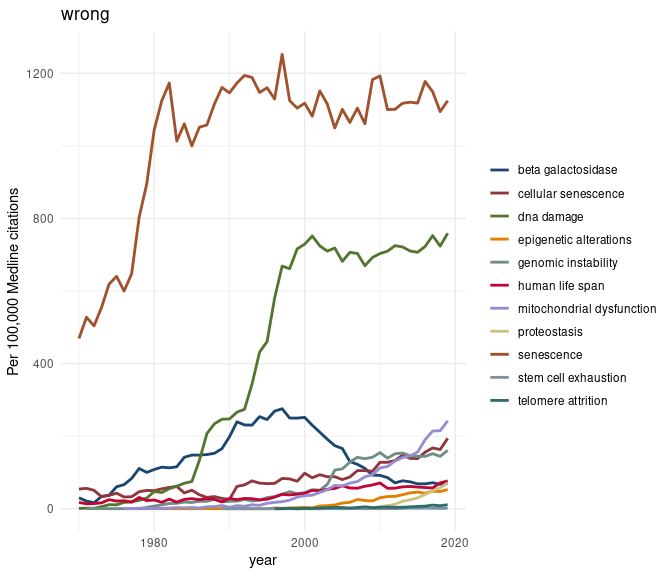
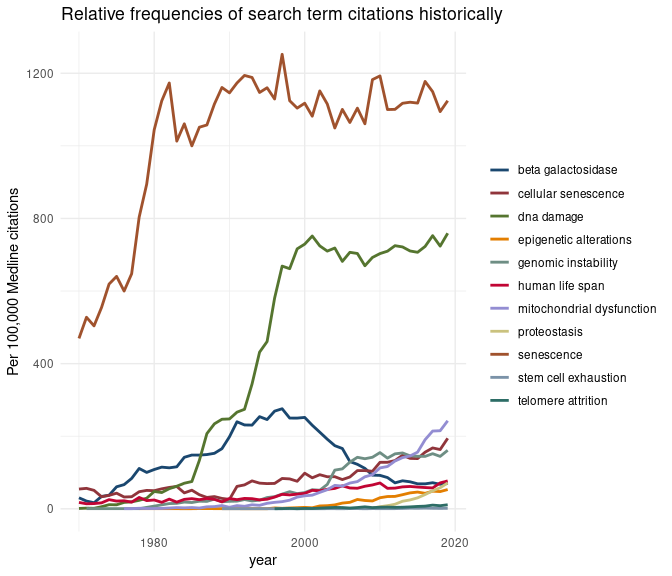
re

Changed region(s): [[0.0938, 0.0, 0.75, 0.0625]]

diff --git a/README.md b/README.md
@@ -1,6 +1,12 @@
 PubMed Mining Toolkit - an overview
 -----------------------------------
 
+Two general sets of utility. (1) Exploratory tools for investigating and
+visualizing high-level patterns/trends based on PubMed search results;
+(2) Build custom corpora based on PubMed abstracts for downstream NLP
+tasks – word sense disambiguation, custom named entity recognition,
+association extraction, etc.
+
 -   [Installation](#installation)
 -   [Usage](#usage)
     -   [MeSH vocabulary](#mesh-vocabulary)
@@ -17,7 +23,7 @@ PubMed Mining Toolkit - an overview
     -   [MeSH-based topic model](#mesh-based-topic-model)
     -   [Topic model summary - html
         widget](#topic-model-summary---html-widget)
-    -   [Image summary](#image-summary)
+    -   [Google image summary](#google-image-summary)
 
 Installation
 ------------
@@ -56,8 +62,9 @@ pacman::p_load(data.table, # quanteda,
 
 The package includes as a data frame the MeSH thesaurus/
 hierarchically-organized vocabulary – comprised of 2021 versions of
-`descriptor` & `trees` files made available via NLM-NIH. [A workflow for
-re-creating the table from raw data
+`descriptor` & `trees` files made available via NLM-NIH.
+
+[A workflow for re-creating the table from raw data
 sets](https://github.com/jaytimm/PubmedMTK/blob/main/build-MeSH-df.md).
 
 ``` r
@@ -169,11 +176,10 @@ knitr::kable(head(PubmedMTK::pmtk_tbl_mesh))
 
 ### Search the PubMed database - `pmtk_search_pubmed()`
 
-Find records included in PubMed that match some search term or multiple
-search terms. If multiple search terms are specified, independent
-queries are performed per term. Output, then, includes PMID results per
-search term – which can subsequently be used to fetch full
-records/abstracts.
+**Identify PubMed records that match some search term or multiple search
+terms**. If multiple search terms are specified, independent queries are
+performed per term. Output includes PMID results per search term – which
+can subsequently be used to fetch full records/abstracts.
 
 Search terms are by default translated into NCBI syntax; for simplicity,
 search is focused on *MeSH headings* (\[MH\]) and *titles & abstracts*
@@ -198,7 +204,7 @@ pmed_search <- c('human life span',
 search_results1 <- PubmedMTK::pmtk_search_pubmed(pmed_search = pmed_search)
 ```
 
-> Summary of record counts returned by PubMed query
+#### Summary of record counts returned by PubMed query
 
 ``` r
 # ## Total citations per search term are summarized below:
@@ -224,7 +230,7 @@ search_results1 %>%
 | telomere attrition        |     853|
 | stem cell exhaustion      |     162|
 
-> Unique records
+#### Unique records
 
 ``` r
 length(unique(search_results1$pmid))
@@ -259,6 +265,8 @@ search_tab %>% filter(term1 == 'senescence') %>% knitr::kable()
 | senescence | stem cell exhaustion      |  278659|     162|     88|   0.668|
 | senescence | telomere attrition        |  278659|     853|    443|   0.623|
 
+Positive pointwise mutual information.
+
 ``` r
 search_tab %>%
   mutate(pmi = ifelse(pmi < 0, 0, pmi),
@@ -285,20 +293,17 @@ search_tab %>%
 
 ### Fetch abstract data from PubMed
 
-As a two-step process: using functions `pmtk_download_abs()` and
-`pmtk_loadr_abs(()`.
+As a two-step process: (1) `pmtk_download_abs()` and (2)
+`pmtk_loadr_abs()`. Other R packages provide access to NCBI-PubMed data
+via the `Eutils` API (most notable being `rentrez`); however, none of
+them are perfectly suited for fetching PubMed abstracts in bulk, or
+building text corpora.
 
-`rentrez` is a lovely package (and maintained by
-[rOpenSci](https://github.com/ropensci/rentrez)); however, in my
-experience it is not especially well-designed for fetching PubMed
-abstracts in bulk or building text corpora. API rate-limits being most
-problematic.
-
-While `rentrez` is still employed here, our approach utilizes a
-combination of local storage and “more + smaller” API queries to make
-the most of rate limits. Each “batch” contains n = 199 records; batch
-files are converted from XML to a data frame in RDS format and stored
-locally in a user-specified file path.
+**The approach utilized here** is not the most elegant, but it makes the
+most out of rate-limits by utilizing a combination of local storage and
+“more + smaller” API batch queries. Each “batch” contains n = 199
+records; batch files are converted from XML to a data frame in RDS
+format and stored locally in a user-specified file path.
 
 #### Download batch data - `pmtk_download_abs()`
 
@@ -340,6 +345,9 @@ sen_df$tif %>%
 |:-------------------|-------:|---------:|
 | N                  |   62790|        NA|
 | Y                  |  426053|  89471130|
+
+> From here, custom-built models. Example. Show example text with search
+> – perhaps – two birds –
 
 #### Record details
 
@@ -429,11 +437,23 @@ sen_df$meta %>%
 
 ### PubMed search results trend data
 
+**Investigate and compare historical citation frequencies for a set of
+search terms**. Analysis is based on search results from the
+`pubmed_get_ids` function, and additionally requires the metadata
+returned from the call to `pmtk_loadr_abs()`, namely “data of
+publication.”
+
+The package includes a table named `pmtk_tbl_citations`, which
+summarizes total Medline citation counts by year – made available by
+NCBI [here](https://www.nlm.nih.gov/bsd/medline_cit_counts_yr_pub.html).
+Based on these historical values as denominators, we can approximate
+changes in relative citation frequency over time for some set of search
+terms.
+
 ``` r
 ## in theory, this could be used for other things -- 
 tr <- subset(sen_df$meta, !grepl('[a-z]', year))
 tr$year <- as.Date(paste(tr$year, '01', '01', sep = '-'))
-## 
 tr1 <- tr[search_results1, on = 'pmid']
 
 ## 
@@ -441,20 +461,19 @@ meds <- data.table::data.table(PubmedMTK::pmtk_tbl_citations)
 tr2 <-  tr1[, list(n = .N), by = list(search, year)]
 tr3 <- subset(tr2, year > as.Date('1969', format = '%Y') &
                 year < as.Date('2019', format = '%Y') )
-
 tr4 <- meds[tr3, on = 'year']
 tr4$per_100k = round(tr4$n / tr4$total * 100000, 3)
 ```
 
-*FACET on absolute versus relative !!!*
+#### Citation frequencies (per 100K total citations) for `senescence`related search terms from 1970 to 2018.
 
 ``` r
 ## Via ggplot --
 tr4 %>%
   ggplot() +
   geom_line(aes(x = year,
-                #y = n, 
-                y = per_100k,
+                #y = n,  ## RAW Citation counts
+                y = per_100k, ## Relative citation counts -- 
                 group = search,
                 color = search),
             size = 1
@@ -464,7 +483,7 @@ tr4 %>%
   theme(legend.position = 'right',
         legend.title = element_blank())  +
   ylab('Per 100,000 Medline citations') +
-  ggtitle('wrong')
+  ggtitle('Relative frequencies of search term citations historically')
 ```
 
 ![](README_files/figure-markdown_github/unnamed-chunk-21-1.png)
@@ -503,8 +522,8 @@ meshes1 %>%
 
 <table>
 <colgroup>
-<col style="width: 3%" />
-<col style="width: 96%" />
+<col style="width: 1%" />
+<col style="width: 98%" />
 </colgroup>
 <thead>
 <tr class="header">
@@ -514,24 +533,24 @@ meshes1 %>%
 </thead>
 <tbody>
 <tr class="odd">
-<td style="text-align: left;">1439082</td>
-<td style="text-align: left;">chloroplasts | hordeum | plant proteins | plant proteins</td>
+<td style="text-align: left;">14081572</td>
+<td style="text-align: left;">adolescence | histology | infant | skin | histology | infant | skin</td>
 </tr>
 <tr class="even">
-<td style="text-align: left;">19675177</td>
-<td style="text-align: left;">accidents, traffic | automobile driving | depressive disorder | geriatric assessment | health status | physical fitness | probability | risk assessment | task performance and analysis</td>
+<td style="text-align: left;">16012945</td>
+<td style="text-align: left;">acetylation | actin cytoskeleton | adenoma | amino acid sequence | cell line, transformed | colorectal neoplasms | dna methylation | epigenesis, genetic | gene expression regulation, neoplastic | gene silencing | genes, tumor suppressor | genes, ras | histones | kidney | proteins | tumor suppressor proteins | histones | proteins | tumor suppressor proteins</td>
 </tr>
 <tr class="odd">
-<td style="text-align: left;">25653617</td>
-<td style="text-align: left;">alzheimer’s | dti | mci</td>
+<td style="text-align: left;">1907469</td>
+<td style="text-align: left;">parkinson disease | psychomotor performance | serine | serine</td>
 </tr>
 <tr class="even">
-<td style="text-align: left;">32240105</td>
-<td style="text-align: left;">bioinformatics | tumor microenvironment</td>
+<td style="text-align: left;">30484227</td>
+<td style="text-align: left;">adult stem cells | biological evolution | cell differentiation | induced pluripotent stem cells | pluripotent stem cells</td>
 </tr>
 <tr class="odd">
-<td style="text-align: left;">32392179</td>
-<td style="text-align: left;">creatine | hemolysis | lifespan</td>
+<td style="text-align: left;">30810280</td>
+<td style="text-align: left;">lifespan | metabolism | proteostasis | drosophila | drosophila proteins | gene ontology | glucose | glucosephosphate dehydrogenase | glycolysis | jnk mitogen-activated protein kinases | lysine | mass spectrometry | pentose phosphate pathway | phosphoprotein phosphatases | proteome | proteostasis | rna-seq | drosophila proteins | proteome | glucosephosphate dehydrogenase | jnk mitogen-activated protein kinases | phosphoprotein phosphatases | glucose | lysine</td>
 </tr>
 </tbody>
 </table>
@@ -584,48 +603,51 @@ tm_summary <- PubmedMTK::mtk_summarize_lda(
 <tbody>
 <tr class="odd">
 <td style="text-align: right;">1</td>
-<td style="text-align: left;">retrospective studies | treatment outcome | prognosis | follow-up studies | risk assessment | severity of illness index | hiv infections | incidence | pain | postoperative complications | predictive value of tests | clinical trials as topic | survival analysis | stroke | comorbidity</td>
+<td style="text-align: left;">transfection | blotting, western | genetic vectors | reverse transcriptase polymerase chain reaction | genes, reporter | mice, transgenic | microscopy, fluorescence | fluorescent antibody technique | flow cytometry | genetic therapy | gene transfer techniques | retina | adenoviridae | promoter regions, genetic | green fluorescent proteins</td>
 </tr>
 <tr class="even">
 <td style="text-align: right;">2</td>
-<td style="text-align: left;">calcium | hippocampus | osteoporosis | bone density | bone and bones | neuronal plasticity | synapses | rats, sprague-dawley | vitamin d | radiography | absorptiometry, photon | lumbar vertebrae | synaptic transmission | action potentials | electrophysiology</td>
+<td style="text-align: left;">hypertension | inflammation | cardiovascular diseases | smoking | treatment outcome | blood pressure | lung | retrospective studies | disease progression | arteriosclerosis | chronic disease | hiv infections | prognosis | immunity, innate | risk</td>
 </tr>
 <tr class="odd">
 <td style="text-align: right;">3</td>
-<td style="text-align: left;">mice, transgenic | amyloid beta-peptides | phosphorylation | autophagy | peptide fragments | membrane proteins | tau proteins | alzheimer’s disease | parkinson disease | neurodegenerative diseases | amyloid beta-protein precursor | astrocytes | microglia | nerve tissue proteins | alzheimer’s disease</td>
+<td style="text-align: left;">enzyme activation | caspase 3 | caspases | enzyme inhibitors | tumor cells, cultured | proto-oncogene proteins c-bcl-2 | poly(adp-ribose) polymerases | cell death | proto-oncogene proteins | in situ nick-end labeling | drug synergism | bcl-2-associated x protein | flow cytometry | proto-oncogene proteins c-akt | doxorubicin</td>
 </tr>
 <tr class="even">
 <td style="text-align: right;">4</td>
-<td style="text-align: left;">phenotype | mutation | genotype | genetic predisposition to disease | gene expression profiling | polymorphism, single nucleotide | dna methylation | epigenesis, genetic | case-control studies | gene expression regulation | alleles | genetic variation | apolipoproteins e | polymorphism, genetic | transcriptome</td>
+<td style="text-align: left;">cross-sectional studies | longitudinal studies | cohort studies | prospective studies | geriatric assessment | prevalence | follow-up studies | surveys and questionnaires | dementia | activities of daily living | incidence | health status | risk assessment | retrospective studies | socioeconomic factors</td>
 </tr>
 <tr class="odd">
 <td style="text-align: right;">5</td>
-<td style="text-align: left;">cell differentiation | fibroblasts | cell line | cell division | cell survival | stem cells | cell proliferation | gene expression regulation | mice, knockout | gene expression | regeneration | epithelial cells | reverse transcriptase polymerase chain reaction | extracellular matrix | cell movement</td>
+<td style="text-align: left;">cell cycle proteins | phosphorylation | nuclear proteins | protein-serine-threonine kinases | histones | dna breaks, double-stranded | tumor suppressor proteins | ataxia telangiectasia mutated proteins | hela cells | protein kinases | atm protein, human | intracellular signaling peptides and proteins | ubiquitin-protein ligases | h2ax protein, human | chromatin</td>
 </tr>
 <tr class="even">
 <td style="text-align: right;">6</td>
-<td style="text-align: left;">cytokines | t-lymphocytes | spleen | mice, inbred balb c | lymphocyte activation | macrophages | flow cytometry | tumor necrosis factor-alpha | thymus gland | lymphocytes | interleukin-6 | b-lymphocytes | antibodies, monoclonal | hematopoietic stem cells | immunoglobulin g</td>
+<td style="text-align: left;">t-lymphocytes | mice, inbred balb c | spermatozoa | spleen | thymus gland | lymphocyte activation | b-lymphocytes | antibodies, monoclonal | mice, inbred strains | flow cytometry | immunoglobulin g | infertility, male | cd4-positive t-lymphocytes | mice, inbred c3h | cytokines</td>
 </tr>
 <tr class="odd">
 <td style="text-align: right;">7</td>
-<td style="text-align: left;">kinetics | erythrocytes | liver | erythrocyte aging | rabbits | proteins | dna | cell membrane | iron | electrophoresis, polyacrylamide gel | in vitro techniques | hemoglobins | molecular weight | isoenzymes | biological transport</td>
+<td style="text-align: left;">cattle | in vitro techniques | hydrogen-ion concentration | electrophoresis, polyacrylamide gel | chickens | rabbits | nitric oxide | galactosidases | molecular weight | endothelium, vascular | amino acids | proteins | lens, crystalline | skin | temperature</td>
 </tr>
 <tr class="even">
 <td style="text-align: right;">8</td>
-<td style="text-align: left;">mortality | life expectancy | population dynamics | demography | research | socioeconomic factors | europe | population | health | geriatrics | forecasting | demographic factors | statistics as topic | retirement | developing countries</td>
+<td style="text-align: left;">comet assay | mutagens | cricetinae | lymphocytes | mutagenicity tests | micronucleus tests | cho cells | water pollutants, chemical | environmental exposure | cricetulus | occupational exposure | environmental monitoring | genotoxicity | glutathione transferase | chromosome aberrations</td>
 </tr>
 <tr class="odd">
 <td style="text-align: right;">9</td>
-<td style="text-align: left;">pregnancy | infant, newborn | microscopy, electron | immunohistochemistry | fetus | cell count | axons | spinal cord | gestational age | fertility | oocytes | cats | embryonic and fetal development | reproduction | histocytochemistry</td>
+<td style="text-align: left;">reproduction | life expectancy | mortality | fertility | research | population dynamics | species specificity | seasons | biological evolution | geriatrics | environment | demography | statistics as topic | models, theoretical | larva</td>
 </tr>
 <tr class="even">
 <td style="text-align: right;">10</td>
-<td style="text-align: left;">cell line, tumor | cell proliferation | tumor suppressor protein p53 | cell cycle | gene expression regulation, neoplastic | antineoplastic agents | breast neoplasms | mesenchymal stem cells | dna damage | cell transformation, neoplastic | down-regulation | neoplasms | up-regulation | micrornas | rna, small interfering</td>
+<td style="text-align: left;">infant | infant, newborn | kidney | dogs | heart rate | blood pressure | reference values | fetus | swine | hemodynamics | species specificity | gestational age | sheep | electrocardiography | horses</td>
 </tr>
 </tbody>
 </table>
 
 ### Topic model summary - html widget
+
+An interactive html widget for exploration of topic model results, and
+conceptual structure.
 
 ``` r
 ## topic model html widget
@@ -635,6 +657,8 @@ mesh_lda$plot(out.dir = "ldavis", open.browser = FALSE)
 
 ![](README_files/figure-markdown_github/demo-tm-viz.png)
 
-### Image summary
+### Google image summary
+
+Lastly, a Google Image search for `human senescence` –
 
 ![](README_files/figure-markdown_github/summary.png)
